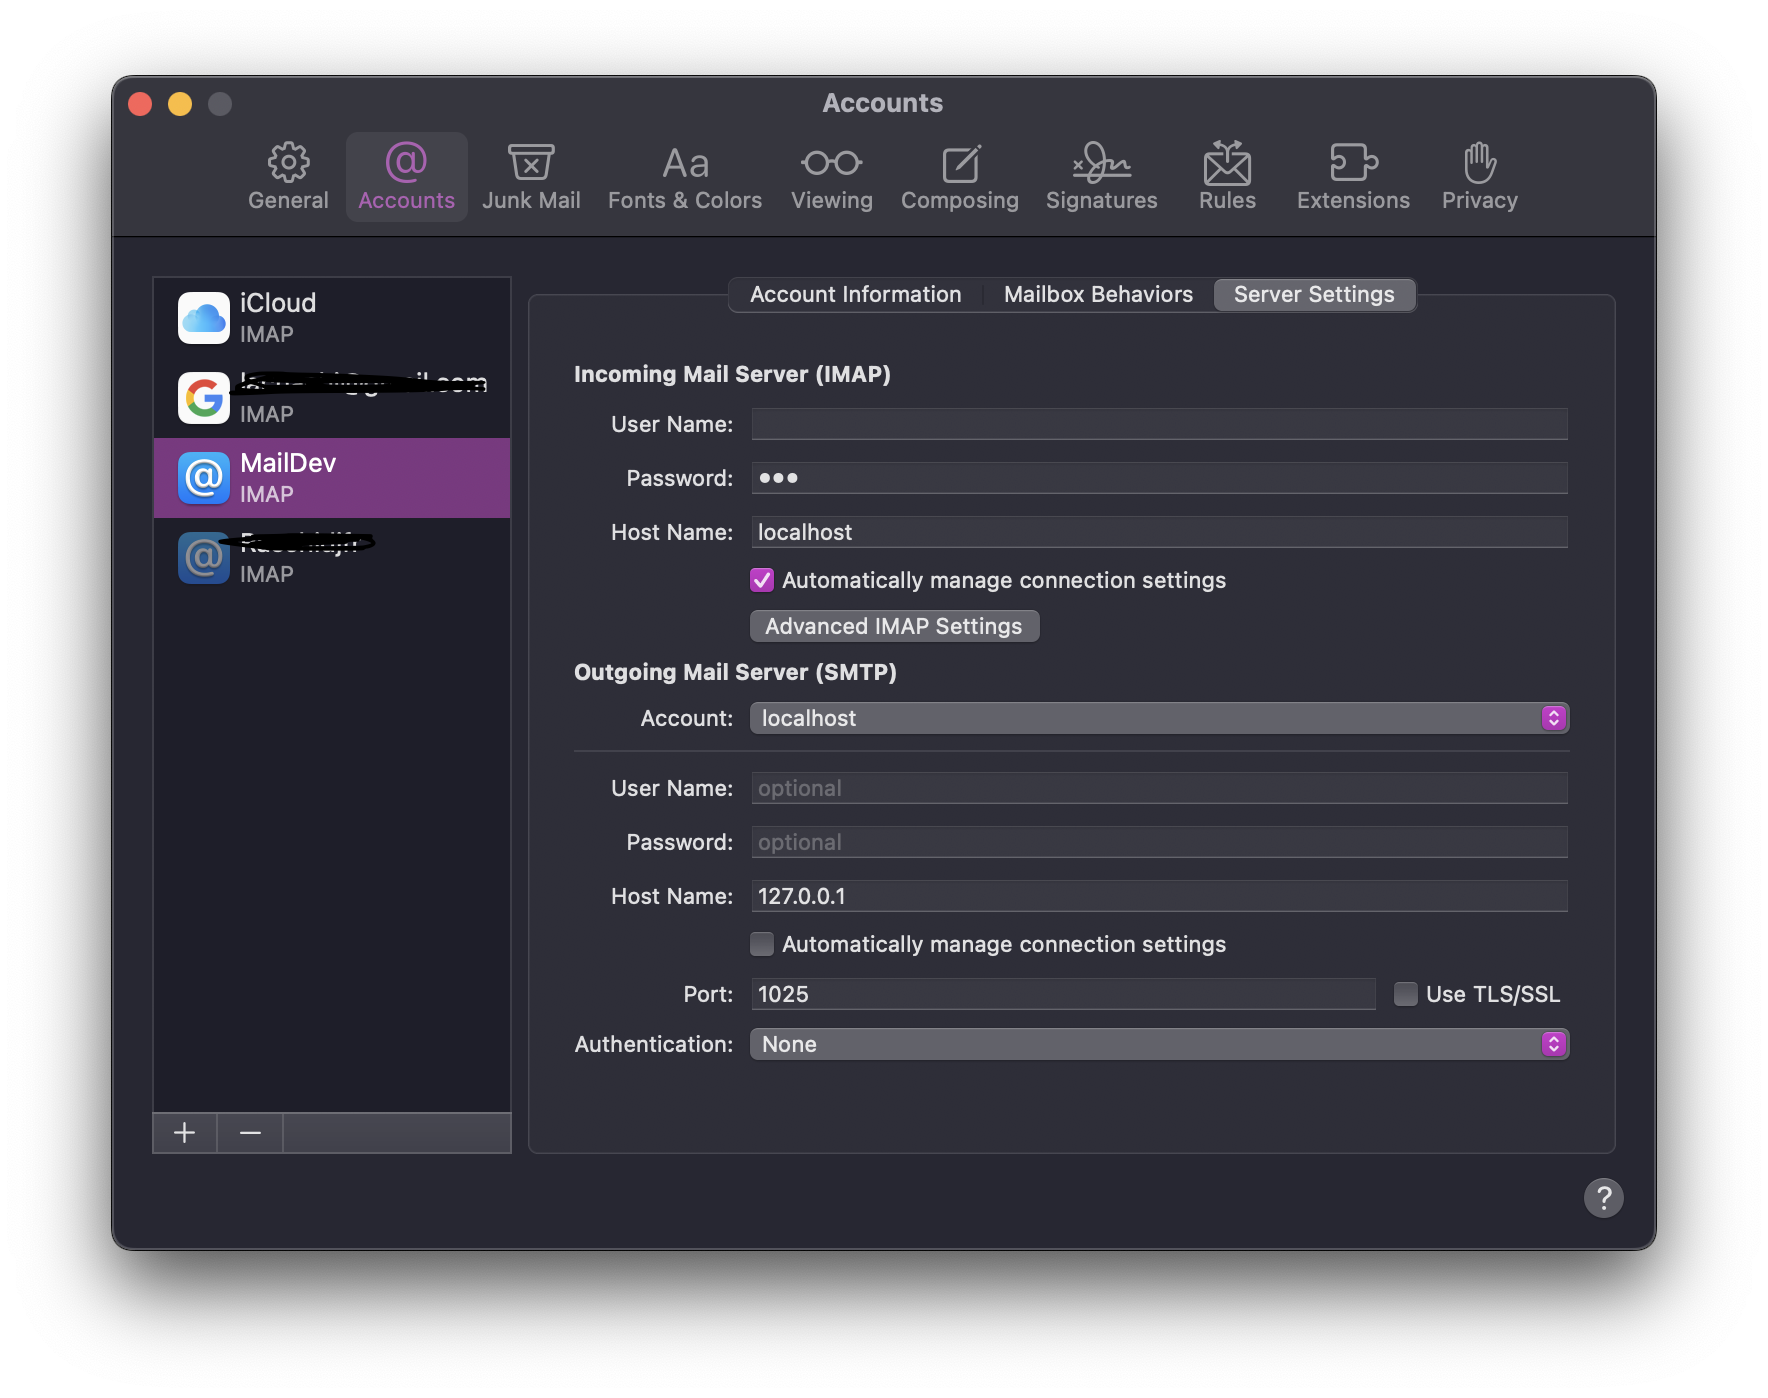
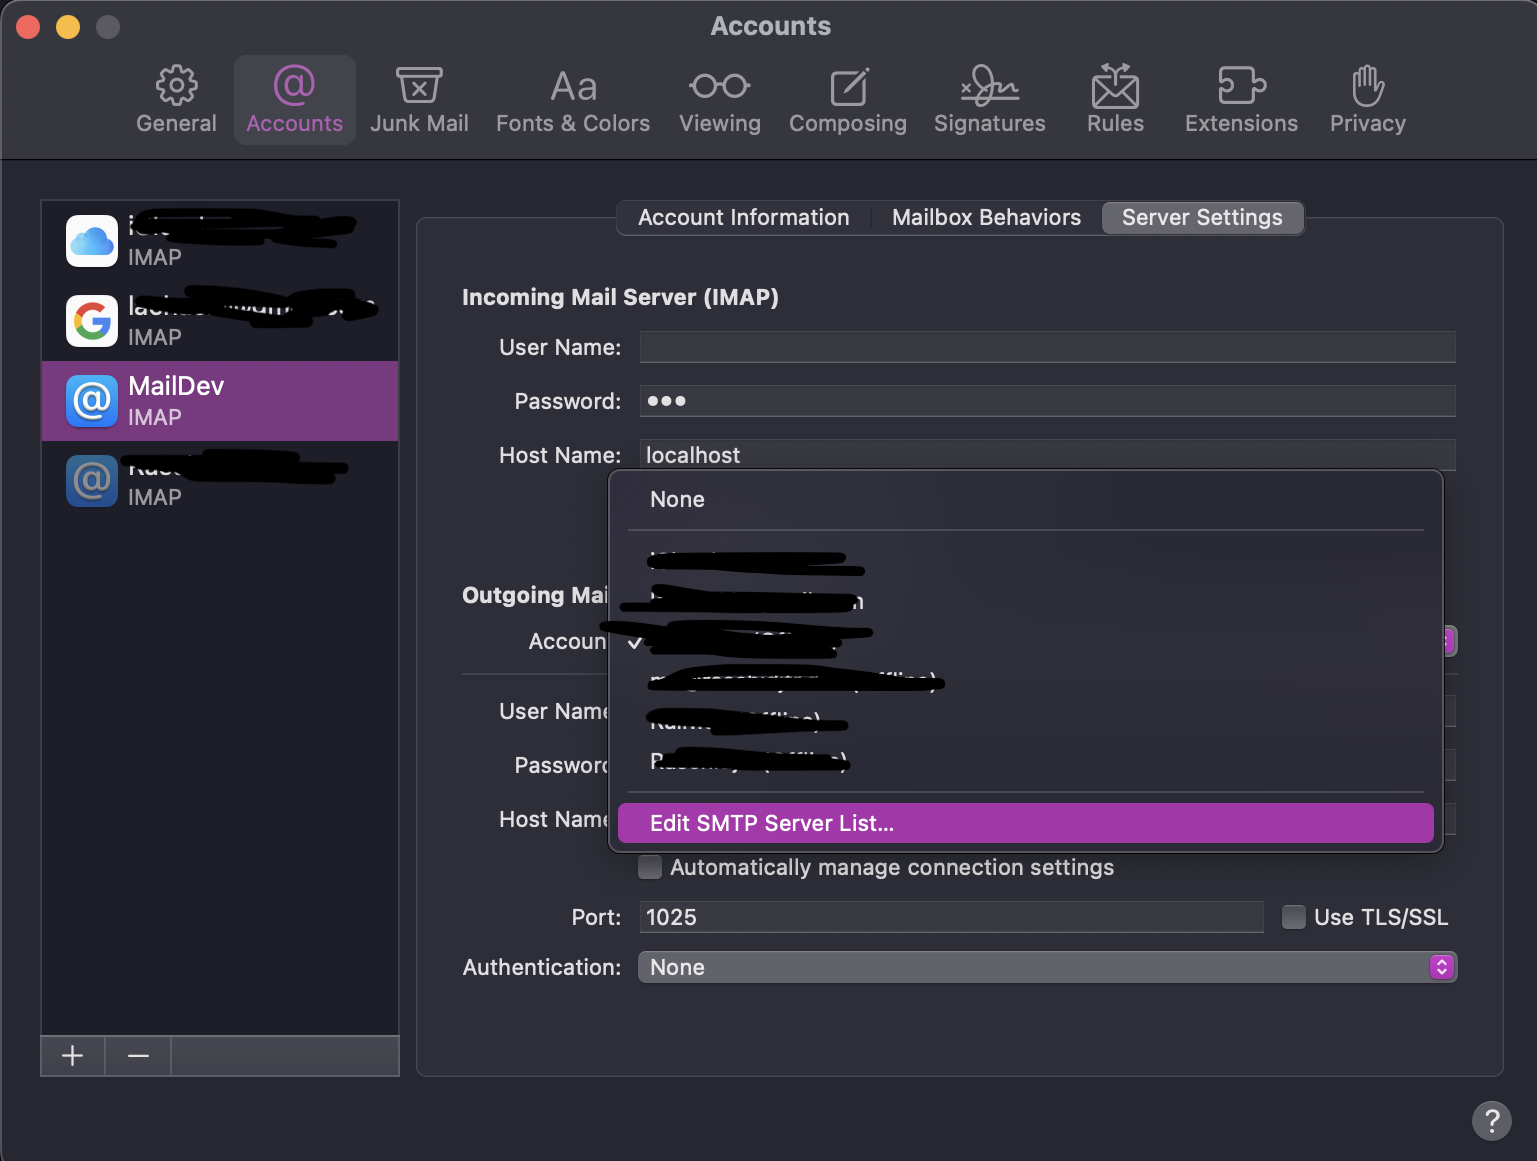
docs: add Readme and local mail client configuration instructions

diff --git a/README.md b/README.md
@@ -1,16 +1,24 @@
-# Bento Mail
+# Bento App
 
-**Bento Mail cuts through newsletter overload.** Just forward your newsletters to the app, and it automatically ingests, organizes, and distills everything into clean, bite-sized insights. Powered by automation and AI, it gives you only the key updates –beautifully presented and delivered on your schedule— so you stay informed without the overwhelm.
+**Bento cuts through newsletter overload.** Just forward your newsletters to the app, and it automatically ingests, organizes, and distills everything into clean, bite-sized insights. Powered by automation and AI, it gives you only the key updates –beautifully presented and delivered on your schedule— so you stay informed without the overwhelm.
 
-## Sample Content
+## Overview
 
-### Original article
+### How it works
+
+1. [Deploy](#deployment) the application and mail server.
+2. [Set up email filters](./docs/setup-mail-client.md) in your email client to forward all your newsletters to the mail server.
+3. Bento will extract all articles, crawl them, and summarize them in a concise, relevant, and read-friendly format.
+4. Go to the web interface at your own pace and browse through your summarized bits. Click on an item to see more details (3 more lines), or click on _Read Full Article_ if you prefer to see the original source.
+5. Clear your list as you read through by using the bottom toolbar (❤ _Relevant_, ❌ _Not Relevant_, 🚩 _Flag Error_, 🔄 _Re-process_).
+
+### Before Bento
 
 ![article](./docs/images/original%20article.png)
 
-### Summarized by Bento Mail
+### After Bento
 
-![Summarized by Bento Mail](./docs/images/bento%20ui.png)
+![Summarized by Bento](./docs/images/bento%20ui.png)
 
 # Getting Started
 
@@ -22,11 +30,11 @@
 
 - Node.js 22+
 - MongoDB (local or cloud)
-- OpenAI API key
-- [Optional] An account on [forwardemail.net](https://forwardemail.net/) (to receive emails and call the app's API).
+- OpenAI API key with access to GPT-5-mini
+- [Optional] Account on [ForwardEmail.net](https://forwardemail.net/) (required if deploying to a cloud server)
 - [Optional] Docker (for containerized setup)
 
-### Local Development
+### Development
 
 1. Clone the repository:
    ```sh
@@ -37,7 +45,7 @@
    ```sh
    npm install
    ```
-3. Copy `.env.example` to `.env` and set required environment variables.
+3. Copy the content of [.env.example](./.env.example) to a new file `.env` and set the required environment variables.
 4. Build and start development server and services:
    ```sh
    npm start
@@ -49,7 +57,7 @@
   ```sh
   npm test
   ```
-- Testing LLM prompts (ignored in unit tests). The [AI Analyzer](./src/lib/ai-article-analyzer.ts) module is responsible for analyzing, classifying, and processing newsletter content. To tests the result of the prompts you need to provide `OPENAI_API_KEY` in the [.env](./.env.example) file and run:
+- **Testing LLM prompts (ignored in unit tests)**. The [AI Analyzer](./src/lib/ai-article-analyzer.ts) module is responsible for analyzing, classifying, and processing newsletter content. To tests the result of the prompts you need to provide `OPENAI_API_KEY` in the [.env](./.env.example) file and run:
   ```sh
   npx vitest tests/ai-article-analyzer
   ```
@@ -73,9 +81,24 @@
 - **worker**: Background worker to process background tasks
 - **rtdb**: Real-time database service to emit change events
 
+## Operation
+
+1. Send an email containing a newsletter or a link to an article to the app's server:
+   1. If you're running the app locally you have two options for this:
+      1. You can get started by forward emails programmatically with this [script](./scripts/fwd-email.mjs).
+      2. Or you can [configure your local mail app](./docs/setup-mail-client.md#When-Bento-is-running-locally).
+   2. If you've deployed the app to a cloud server: 
+      1. You'll need an email server that supports webhooks. [See this guide](./docs/setup-mail-client.md#setup-mail-forwarding-service).
+      2. 
+2. After a couple of minutes\*, you can access your processed content via the web interface. If you're running it locally, it should be something like `http://localhost:3000?user=<your@email.address>`\*\*.
+
+\* _Processing of email messages takes a few minutes, depending on the amount of articles found in the content._
+
+\*\* _For now, the user email is passed via URL query parameters._
+
 ## Deployment
 
-### Docker
+### Deploy using Docker
 
 Start all services with Docker Compose (the project will be built during image build time):
 
@@ -83,19 +106,15 @@ Start all services with Docker Compose (the project will be built during image b
 docker compose --env-file .env up -d
 ```
 
-### Railway
+### Deploy to [Railway](https://railway.com/)
+
+Railway is a container-first cloud environment that allows to easily and visually deploy multi-container applications.
 
 1. Create a new [Railway](https://railway.com/) project.
-2. For each service, create a Railway service using the same repo and Dockerfile. You can use Railway's [drag-and-drop](https://railway.com/changelog/2024-04-19-drag-and-drop-docker) feature.
-3. Set required environment variables for each service (see `docker-compose.yml`).
+2. For each service, create a Railway service using the same repo and Dockerfile. It is recommended to use Railway's [drag-and-drop](https://railway.com/changelog/2024-04-19-drag-and-drop-docker) feature with the [docker-compose.yml](./docker-compose.yml) file.
+3. Set the required environment variables for each service (see [docker-compose.yml](./docker-compose.yml)).
 4. Set the correct start command for each service:
    - web: `npx next start`
    - mail: `node scripts/start-mail-server.mjs`
    - worker: `node scripts/start-worker.mjs`
    - rtdb: `node scripts/start-rtdb.mjs`
-
-# Operation
-1. Configure your email client to forward your newsletters to the application. See [this guide](./docs/setup-mail-client.md).
-2. Visit the application web interface under `http://localhost?user=<your email address>`.
-
-Processing of email messages takes a few minutes, depending on the amount of articles found in the content.

diff --git a/docs/setup-mail-client.md b/docs/setup-mail-client.md
@@ -1,32 +1,49 @@
-## Configure email client to forward newsletters
+# Configure your email client to forward messages
 
-Using your regular email client, you can forward either manually or automatically your newsletters to the Bento Mail web application so it processes and summarizes your newsletters. Depending on whether your application has been deployed remotely or if you're developing locally, you'll configure your email client differently.
+Using your regular email client, you can manually or automatically forward your newsletters to the Bento. Depending on whether your application has been deployed to the cloud or running locally, you'll configure your email client differently.
 
-### During local development (a bit tricky)
+## When Bento is running locally
 
-This step is required only during local development.
+Just ensure the application server is running and configure your email client application to point to the local Bento server (⚠ does not work on browser clients). This configuration example is based on MacOS:
 
-#### MacOS
+#### Configure Apple Mail
 
-1. Ensure the application's mail server [is running](../README.md#Local-Development)
-2. Open the Mail app and [add a new (valid) account](https://support.apple.com/en-ca/guide/mail/mail35803/mac). This account will be modified in the next step but the Mail app won't let you add it unless it is a valid email account on a valide email provider
-3. [Modify](https://support.apple.com/en-ca/guide/mail/cpmlprefacctadv/mac) the recently added account
-   1. Open the app's settings (`⌘ + ,`), go to _Accounts_ and select the account to modify
-   2. Under _Server_ > _Outgoing Mail Server (SMPT)_ click on _Account_ and then on _Edit SMTP Server List…_
+1. Open the Mail app and [add a new account](https://support.apple.com/en-ca/guide/mail/mail35803/mac). This account will be modified in the next step but the Mail app won't let you add it unless it is a valid email account on a valide email provider. Follow the required steps.
+2. [Modify](https://support.apple.com/en-ca/guide/mail/cpmlprefacctadv/mac) the recently added account:
+   1. Open the app's settings (`⌘ ,`), go to _Accounts_ and select the account to modify.
+   2. You can rename the account to whatever you like ('MailDev' in this example) by changing the value in the _Description_ field under the _Account Information_ tab.
+      ![](./images/account%20info.png)
+   3. Now go to the _Server Settings_ tab. You can leave whatever values under the _Incoming Mail Server (IMAP)_ section. These will not be used by Bento. Under _Server_ > _Outgoing Mail Server (SMPT)_ click on _Account_ and then on _Edit SMTP Server List…_
       ![](./images/mail%20config.png)
-   3. Click on the plus (`+`) button and enter the details for the new server:
+   4. Click on the plus (`+`) button and enter the details for the new server:
       ![](./images/server%20config.png)
-      1. Description: `maildev`
+      1. Description: `localhost` (or whatever name you want)
       2. User Name: (empty)
       3. Password: (empty)
       4. Host Name: `127.0.0.1`
       5. Port: `1025` (or the one set in your [.env](./../.env.example) file)
       6. Authentication: none
-   4. Click _OK_ to close the panel
-   5. Select `maildev` as the value for _Outgoing Mail Server (SMPT)_ > _Account_ from the dropdown list.
+   5. Click _OK_ to close the panel
+   6. Select the new `localhost` as the value for _Outgoing Mail Server (SMPT)_ > _Account_ from the dropdown list and close the configuration panel.
+      ![](./images/select%20server.png)
+3. To forward an email to Bento just click 'forward' as you normally do, and select the newly added account in the field `From:`
+   ![](./images/forward%20email.png)
+4. Wait a couple of minutes for the AI to extract your content and go to Bento's web interface in your browser using the email you set in the field `To:` when sending the email\*. For the previous example that would be: [http://localhost:3000?user=your@email.address](http://localhost:3000?user=your@email.address)
 
-To send an email to the application running locally just forward any message to any email address from the newly created account. Please note that the `to` address field is not relevant. What is relevant is the `from` field as it uses the local running server.
+\* This pseudo-login mechanism will be properly implemented in the future. For now it is enough to provide the user's email in the browser's url.
 
-#### Windows
+## When Bento has been deployed
 
-_Information to be provided_
+### 1. Setup a mail server
+
+The easiest way to set up a compatible mail server to receive your newsletters and forward them to Bento for processing is to create an account on [ForwardEmail.net](https://forwardemail.net/en). Follow their [documentation](https://forwardemail.net/en/faq#quick-start) to set up an email alias and point it to `https://<yourappdomain>/api/email` (no trailing slash!). The next step is to configure your email provider to send your received newsletters to ForwardEmail.net.
+
+### 2. Setup filters
+
+## Gmail
+
+Set up a filter for the email addresses of your newsletters. See [this article](https://support.google.com/mail/answer/10957?hl=en) to learn how.
+
+## iCloud
+
+Set up a rule to forward the email addresses of your newsletters. See [this article](https://support.apple.com/en-ca/guide/icloud/mm6b1a3f8a/icloud) to learn how.
